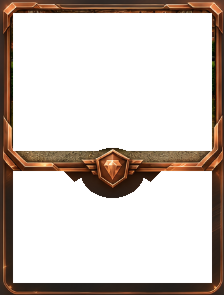
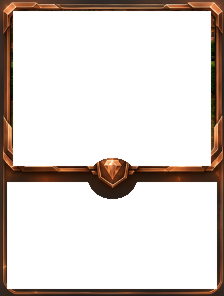
v4

diff --git a/public/index.html b/public/index.html
@@ -539,3 +539,15 @@ $("logoutBtn").addEventListener("click",async()=>{try{await api("/api/auth/logou
 .card[data-skin="galaxy"]::before,.profile-car[data-skin="galaxy"]::before{background-image:url('/skins/galaxy.png')}
 .card[data-skin="godly"]::before,.profile-car[data-skin="godly"]::before{background-image:url('/skins/godly.png')}
 </style>
+
+<style id="autodex-reference-skin-final">
+/* Transparent overlays extracted from the exact eight approved reference cards. */
+.card,.profile-car{position:relative;isolation:isolate;overflow:hidden;}
+.card::before,.profile-car::before{content:"";position:absolute;inset:0;z-index:20;pointer-events:none;background-repeat:no-repeat;background-size:100% 100%;opacity:1;}
+.card .photo:after{content:none!important;}
+.card .skin-divider{height:0!important;margin:0!important;padding:0!important;border:0!important;box-shadow:none!important;background:transparent!important;}
+.card .skin-divider:before,.card .skin-divider:after{display:none!important;content:none!important;}
+.card .card-body{background:linear-gradient(135deg,transparent,var(--skin-glow)),var(--skin-bg);}
+.profile-car .skin-divider{height:0!important;margin:0!important;border:0!important;box-shadow:none!important;background:transparent!important;}
+.profile-car .skin-divider:before,.profile-car .skin-divider:after{display:none!important;content:none!important;}
+</style>
